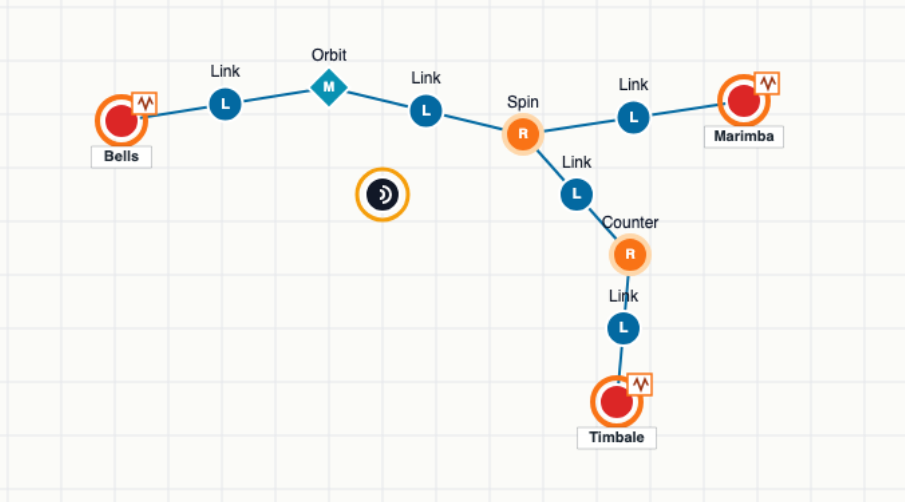
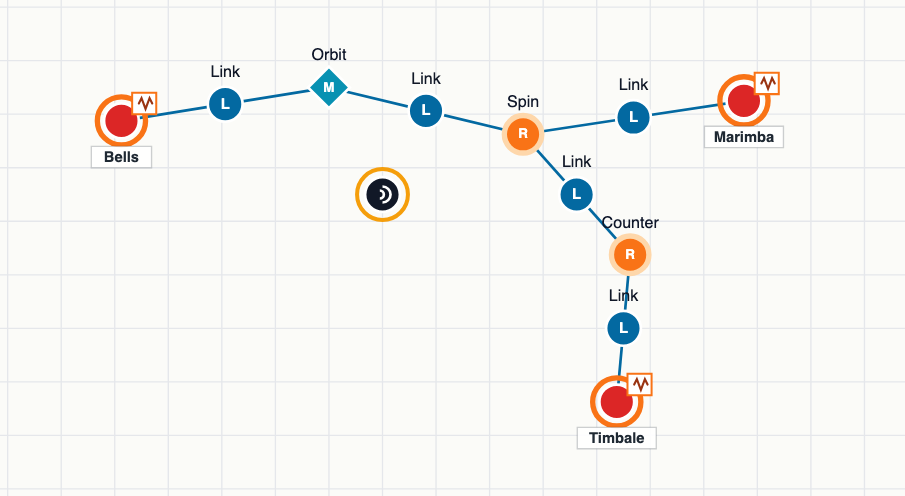
Add README demo screenshot gallery

Changed region(s): [[0.0928, 0.121, 0.8663, 0.9073], [0.3713, 0.3327, 0.4641, 0.4536], [0.3403, 0.0907, 0.4022, 0.121]]

diff --git a/scripts/capture-readme-screenshot.js b/scripts/capture-readme-screenshot.js
@@ -4,13 +4,30 @@ const path = require("node:path");
 const { chromium } = require("playwright");
 
 const root = path.resolve(__dirname, "..");
-const outputPath = path.join(root, "assets", "screenshots", "musicspace-cycloid-percussion.png");
-const readmeCanvasCrop = {
-  x: 115,
-  y: 155,
-  width: 675,
-  height: 375
-};
+const screenshotDir = path.join(root, "assets", "screenshots");
+const authoredCanvasSize = { width: 800, height: 600 };
+const demoScreenshots = [
+  {
+    patchKey: "cycloid-percussion",
+    outputName: "musicspace-cycloid-percussion.png",
+    crop: { x: 115, y: 155, width: 675, height: 375 }
+  },
+  {
+    patchKey: "openspace-ostinatos",
+    outputName: "musicspace-openspace-ostinatos.png",
+    crop: { x: 0, y: 0, width: 800, height: 600 }
+  },
+  {
+    patchKey: "jazz-trio-midi",
+    outputName: "musicspace-jazz-trio-midi.png",
+    crop: { x: 0, y: 0, width: 800, height: 600 }
+  },
+  {
+    patchKey: "granular-cloud-study",
+    outputName: "musicspace-granular-cloud-study.png",
+    crop: { x: 0, y: 0, width: 800, height: 600 }
+  }
+];
 
 const contentTypes = {
   ".css": "text/css",
@@ -48,6 +65,29 @@ function serveFile(request, response) {
       return;
     }
 
+    const isPatchJson =
+      target.startsWith(path.join(root, "patches")) &&
+      path.extname(target) === ".json" &&
+      path.basename(target) !== "index.json";
+
+    if (isPatchJson) {
+      try {
+        const patch = JSON.parse(fs.readFileSync(target, "utf8"));
+        for (const mover of patch.movingObjects || []) {
+          if (mover.trajectory) {
+            mover.trajectory.running = false;
+          }
+        }
+        response.writeHead(200, { "Content-Type": "application/json" });
+        response.end(JSON.stringify(patch));
+        return;
+      } catch (error) {
+        response.writeHead(500);
+        response.end(`Unable to prepare screenshot patch: ${error.message}`);
+        return;
+      }
+    }
+
     response.writeHead(200, {
       "Content-Type": contentTypes[path.extname(target)] || "application/octet-stream"
     });
@@ -55,8 +95,19 @@ function serveFile(request, response) {
   });
 }
 
+async function stopMoversIfRunning(page) {
+  const animationToggle = page.locator("#animation-toggle");
+  if (!(await animationToggle.isVisible())) {
+    return;
+  }
+  if ((await animationToggle.getAttribute("aria-pressed")) === "true") {
+    await animationToggle.click();
+    await page.waitForFunction(() => document.querySelector("#animation-toggle")?.getAttribute("aria-pressed") === "false");
+  }
+}
+
 async function main() {
-  fs.mkdirSync(path.dirname(outputPath), { recursive: true });
+  fs.mkdirSync(screenshotDir, { recursive: true });
 
   const server = http.createServer(serveFile);
   await new Promise((resolve) => server.listen(0, "127.0.0.1", resolve));
@@ -76,27 +127,32 @@ async function main() {
   try {
     await page.goto(`${baseUrl}/musicspace.html`, { waitUntil: "networkidle" });
     await page.waitForFunction(() => document.querySelectorAll("#patch-select option").length > 0);
-    await page.selectOption("#patch-select", "cycloid-percussion");
-    await page.waitForFunction(() => document.querySelector("#patch-summary")?.textContent.includes("Cycloid Percussion"));
-    const stageBox = await page.locator("#stage").boundingBox();
-    const canvasSize = await page.locator("#canvas").evaluate((canvas) => ({
-      width: canvas.width,
-      height: canvas.height
-    }));
-    if (!stageBox) {
-      throw new Error("Unable to locate stage for README screenshot");
-    }
-    const scaleX = stageBox.width / canvasSize.width;
-    const scaleY = stageBox.height / canvasSize.height;
-    await page.screenshot({
-      path: outputPath,
-      clip: {
-        x: stageBox.x + readmeCanvasCrop.x * scaleX,
-        y: stageBox.y + readmeCanvasCrop.y * scaleY,
-        width: readmeCanvasCrop.width * scaleX,
-        height: readmeCanvasCrop.height * scaleY
+
+    for (const demo of demoScreenshots) {
+      await page.selectOption("#patch-select", demo.patchKey);
+      await page.waitForFunction(
+        (patchKey) => document.querySelector("#patch-select")?.value === patchKey,
+        demo.patchKey
+      );
+      await stopMoversIfRunning(page);
+      await page.waitForTimeout(150);
+
+      const stageBox = await page.locator("#stage").boundingBox();
+      if (!stageBox) {
+        throw new Error(`Unable to locate stage for ${demo.patchKey} screenshot`);
       }
-    });
+      const scaleX = stageBox.width / authoredCanvasSize.width;
+      const scaleY = stageBox.height / authoredCanvasSize.height;
+      await page.screenshot({
+        path: path.join(screenshotDir, demo.outputName),
+        clip: {
+          x: stageBox.x + demo.crop.x * scaleX,
+          y: stageBox.y + demo.crop.y * scaleY,
+          width: demo.crop.width * scaleX,
+          height: demo.crop.height * scaleY
+        }
+      });
+    }
 
     if (failures.length > 0) {
       throw new Error(`Browser errors while capturing screenshot:\n${failures.join("\n")}`);

diff --git a/TODO.md b/TODO.md
@@ -51,7 +51,7 @@ This file collects likely next steps for the MusicSpace prototype. It is intenti
 - Add a simple formatter/linter before the next broad JavaScript refactor. Prefer a low-churn setup such as Prettier check-only first, then formatting in a dedicated commit.
 - Keep the GitHub Pages workflow as the public-demo gate: run syntax, engine, and browser smoke tests before deployment; extend the smoke test as important UI workflows stabilize.
 - Keep the README focused on running, controls, built-in patches, and repository orientation. Move longer research notes or design rationale into dedicated docs when the background/features sections grow again.
-- Refresh the README screenshot when the source/mover visual language changes; consider a short animated capture once trajectory controls settle.
+- Refresh the README screenshot gallery when the source/mover visual language changes; consider short animated captures, ideally with sound, once trajectory controls settle.
 - Keep the app as a static prototype for now. Revisit packaging as a JavaScript module only when scene/model code is split from DOM/canvas UI and there is a clear embeddable API.
 
 ## Open Questions

diff --git a/README.md b/README.md
@@ -8,7 +8,13 @@ MusicSpace now includes two interactive solver modes: the default bounded propag
 
 Live demo: <https://fpachet.github.io/musicspace/>
 
-![MusicSpace Cycloid Percussion demo](assets/screenshots/musicspace-cycloid-percussion.png?v=readme-closeup)
+## Demo Snapshots
+
+| Cycloid Percussion | OpenSpace Ostinatos |
+| --- | --- |
+| ![MusicSpace Cycloid Percussion audio demo](assets/screenshots/musicspace-cycloid-percussion.png?v=demo-gallery) | ![MusicSpace OpenSpace Ostinatos MIDI generator demo](assets/screenshots/musicspace-openspace-ostinatos.png?v=demo-gallery) |
+| Jazz Trio MIDI Spatializer | Granular Cloud Study |
+| ![MusicSpace Jazz Trio MIDI spatialization demo](assets/screenshots/musicspace-jazz-trio-midi.png?v=demo-gallery) | ![MusicSpace Granular Cloud parameter mapping demo](assets/screenshots/musicspace-granular-cloud-study.png?v=demo-gallery) |
 
 ## Running
 
@@ -43,6 +49,12 @@ Run the browser smoke test with:
 ```sh
 npx playwright install chromium
 npm run smoke
+```
+
+Refresh the README screenshots with:
+
+```sh
+npm run capture:screenshot
 ```
 
 ## Controls
